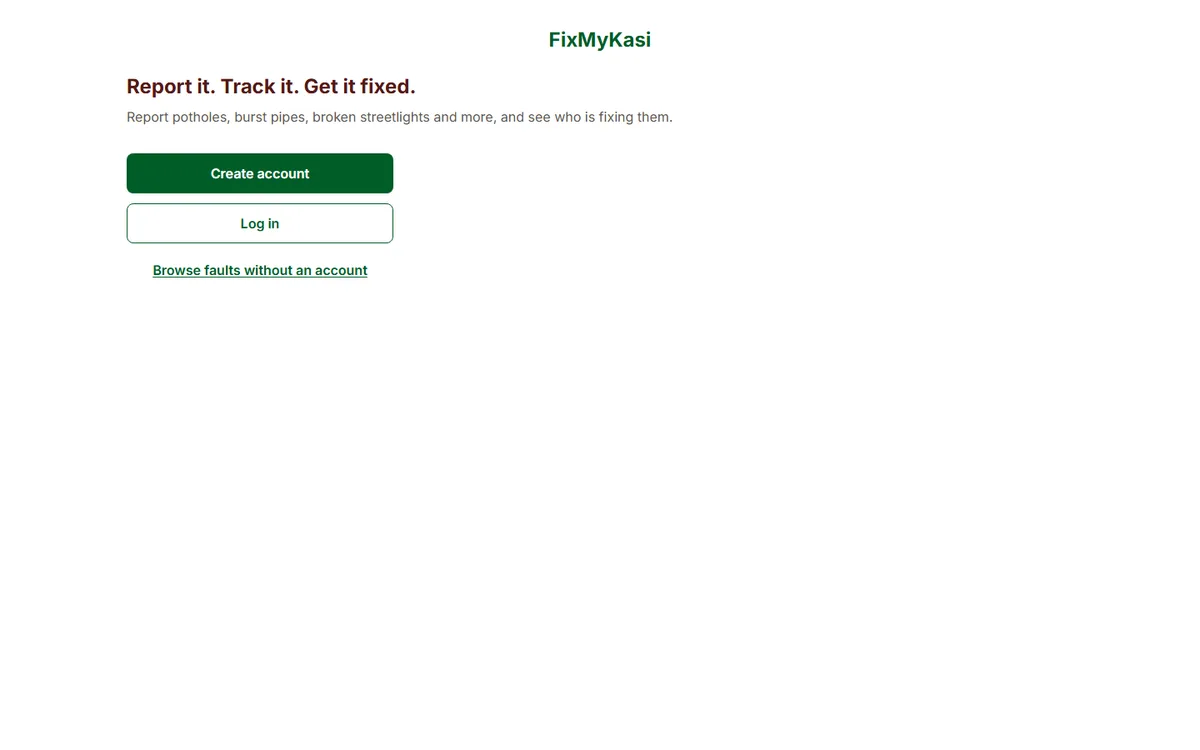
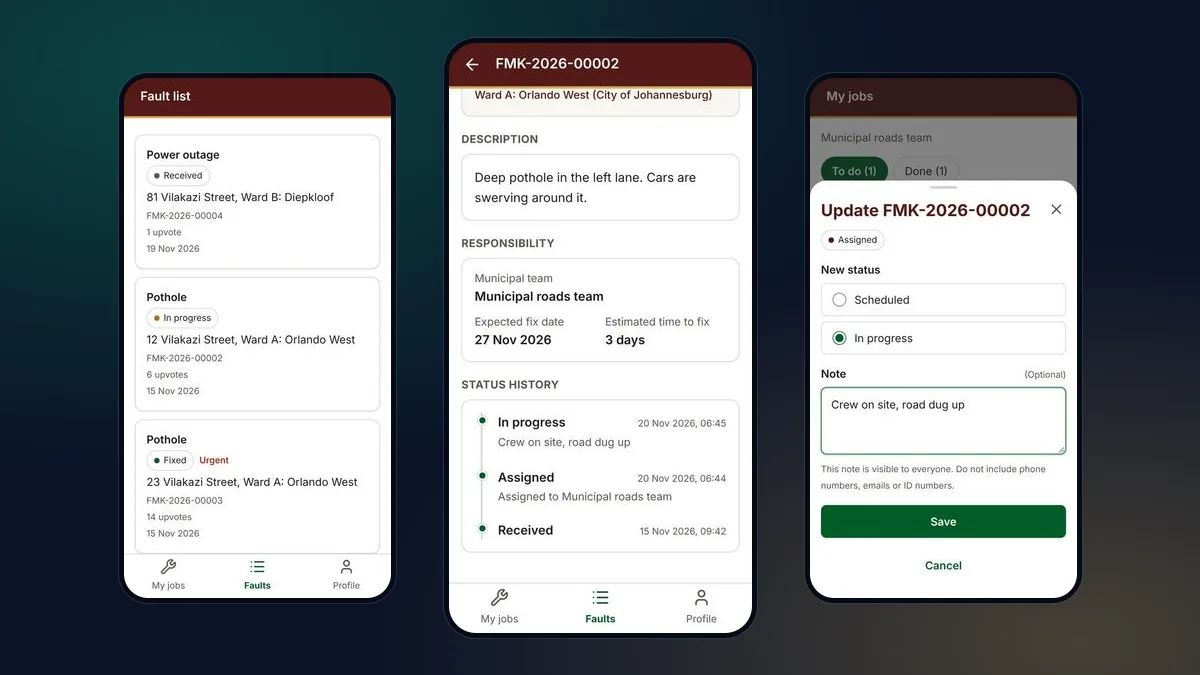
fix: better FixMyKasi and CreditWise card images

diff --git a/src/data/content.ts b/src/data/content.ts
@@ -142,7 +142,8 @@ export const projects: Project[] = [
     live: 'https://fixmykasi.vercel.app',
     github: { url: 'https://github.com/Paul280-cloud/fixmykasi' },
     images: [
-      { src: '/projects/fixmykasi.webp', alt: 'FixMyKasi landing page with the headline "Report it. Track it. Get it fixed." and options to create an account, log in or browse faults' },
+      { src: '/projects/fixmykasi.webp', alt: 'FixMyKasi resident screens on three phones: the fault list with status badges, a fault timeline showing who is fixing it and by when, and the update status form' },
+      { src: '/projects/fixmykasi-3.webp', alt: 'FixMyKasi ward staff screens on three phones: the ward queue, the assign fault form with field team and expected fix date, and the field team job list' },
       { src: '/projects/fixmykasi-2.webp', alt: 'FixMyKasi fault page for a pothole marked Fixed, showing its location, the responsible municipal roads team, the expected fix date and the status history' },
     ],
     accent: 'emerald',
@@ -158,6 +159,10 @@ export const projects: Project[] = [
     stack: ['React 19', 'TypeScript', 'Vite', 'Tailwind CSS', 'Recharts', 'Framer Motion'],
     live: null,
     github: { url: 'https://github.com/Sijabulile-Ncube/creditwise-ai' },
+    images: [
+      { src: '/projects/creditwise.webp', alt: 'CreditWise AI Stitch designs on three phones: the welcome screen "See your money the way a lender does.", the My Money income and expenses view, and the Ask CreditWise chat explaining a DTI ratio' },
+      { src: '/projects/creditwise-2.webp', alt: 'CreditWise AI Stitch designs on three phones: flagged transactions, a before and after comparison of DTI and status band, and the Get Ready credit guides checklist' },
+    ],
     accent: 'emerald',
   },
   {
